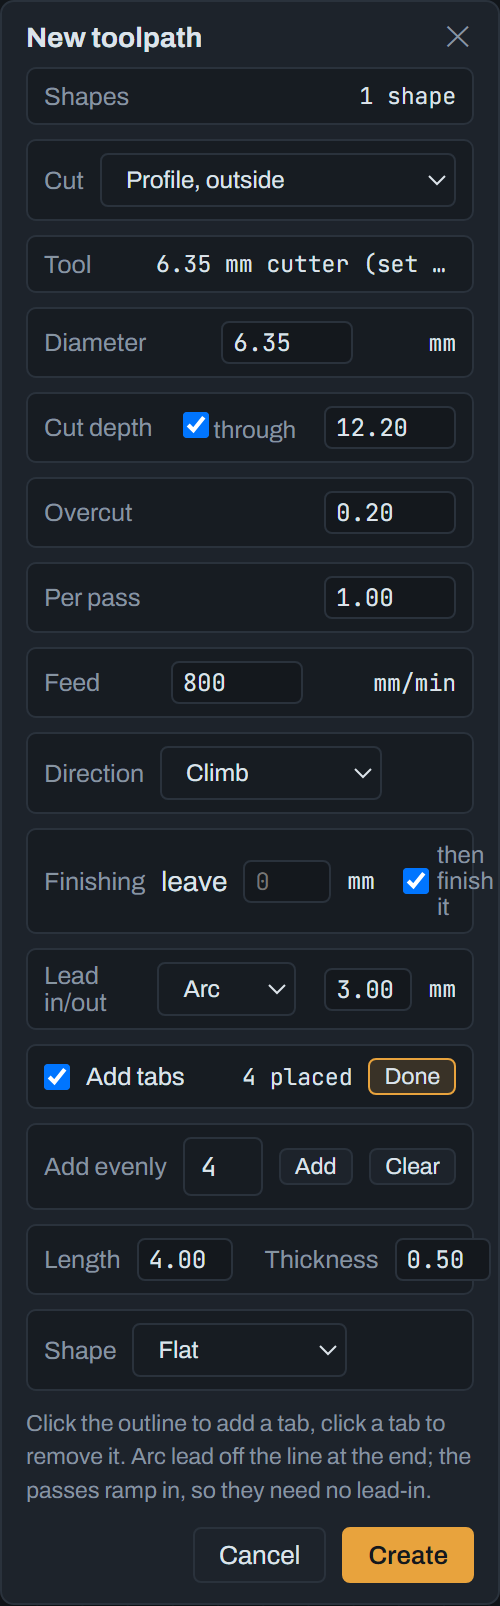
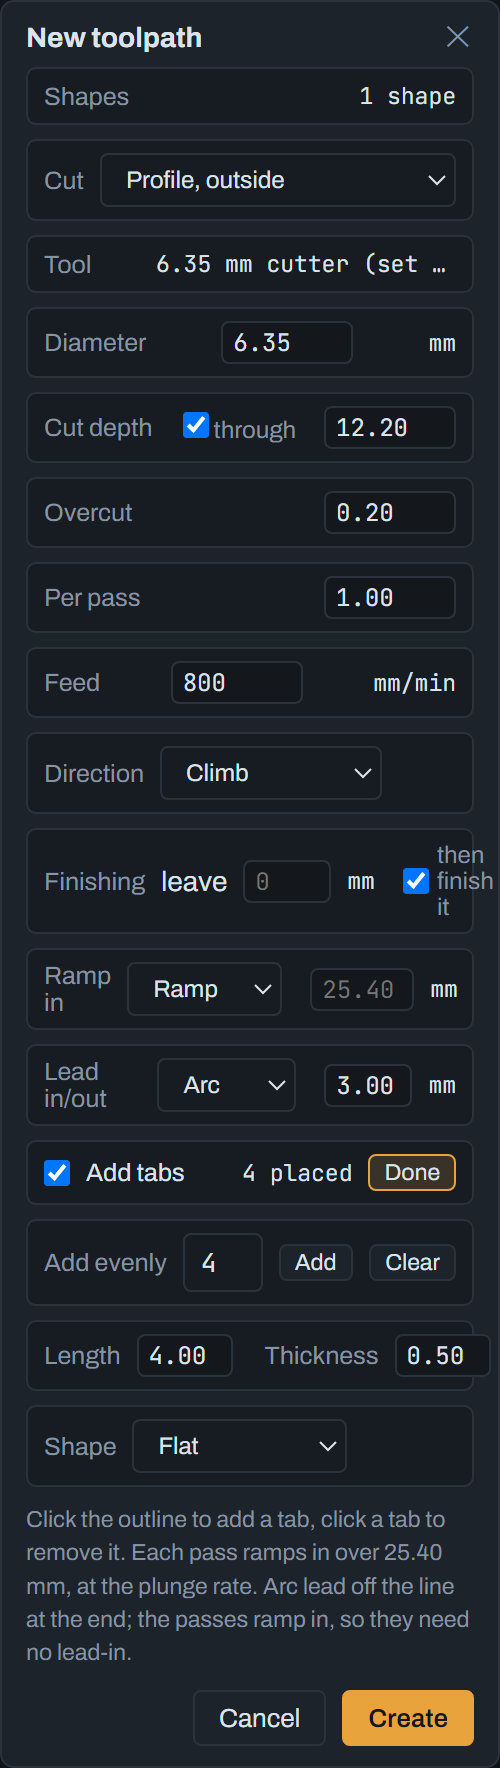
Ramp in for profiles and pockets: Ramp or Plunge, and how far (Design 0.98.0, desktop 0.6.2-beta.18)
Profiles and pockets always ramped in over 4x the cutter's diameter (at
least 4 mm), with no way to see it, change it or plunge. The toolpath
editor gets a Ramp in row: Ramp (the default, with its length: empty for
the automatic one, which follows the cutter, or typed) or Plunge (ramp
length 0, which the CAM engine already takes as a straight plunge; a
plunging profile then uses its lead-in). tpRamp() in toolpath-generate.js
decides the length. Cards and the job sheet show it as Entry.

Existing toolpaths are unchanged (checked move for move). Tested through
the editor with the CAM engine (9 tests, each checked by breaking what it
covers). Docs and screenshots updated.

Changed region(s): [[0.0, 0.0, 0.99, 1.0], [0.78, 0.0, 0.93, 0.0623], [0.72, 0.0311, 0.75, 0.0623]]

diff --git a/design.html b/design.html
@@ -763,6 +763,10 @@
       <div class="mirSlot" id="cutFinRow" hidden style="cursor:default"><span class="mirLbl"><label for="cutAllow">Finishing</label></span>
         leave <input id="cutAllow" type="text" inputmode="decimal" autocomplete="off" style="width:44px" placeholder="0" title="Material left on the walls by the roughing passes"> <span class="mirVal" id="cutAllowU"></span>
         <label style="display:flex;align-items:center;gap:4px;margin-left:6px;font-size:12px;color:var(--muted)"><input type="checkbox" id="cutFinPass"> then finish it</label></div>
+      <div class="mirSlot" id="cutRampRow" hidden style="cursor:default"><span class="mirLbl"><label for="cutRamp">Ramp in</label></span>
+        <select id="cutRamp" title="Ramp: each pass slopes down into the material along the cut, instead of plunging straight down. Gentler on the cutter and the machine.">
+          <option value="on">Ramp</option><option value="off">Plunge</option></select>
+        <input id="cutRampLen" type="text" inputmode="decimal" autocomplete="off" style="width:52px;margin-left:6px" title="How far along the cut each pass slopes down. Leave it empty for 4 times the cutter's diameter (at least 4 mm)."> <span class="mirVal" id="cutRampU"></span></div>
       <div class="mirSlot" id="cutLeadRow" hidden style="cursor:default"><span class="mirLbl"><label for="cutLead">Lead in/out</label></span>
         <select id="cutLead" title="Sweep onto the line from the waste side and off it again, so no pass starts or stops on the finished wall">
           <option value="none">None</option><option value="arc">Arc</option><option value="line">Line</option></select>
@@ -902,7 +906,7 @@
 </script>
 <script>
 'use strict';
-var DESIGN_VERSION = '0.97.0'; // bump on every build — shown in the header
+var DESIGN_VERSION = '0.98.0'; // bump on every build — shown in the header
 /* ============================================================
    454 Design — geometry model
    Entities: {t:'line',x1,y1,x2,y2} {t:'circle',cx,cy,r}
@@ -3298,6 +3302,12 @@ function tpTabTotal(tp){
   return n;
 }
 
+// How a profile or pocket enters the material on each pass: a ramp, sloping down along the cut over this
+// length, or 0 for a straight plunge (Ramp off). No length set means 4 times the cutter's diameter, at least
+// 4 mm, and follows the cutter. Toolpaths saved before the setting existed ramp, as they always did.
+function tpRampDefault(tp){ return Math.max(4, (tp.dia || 0) * 4); }
+function tpRamp(tp){ return tp.rampOff ? 0 : (tp.rampLen > 0 ? tp.rampLen : tpRampDefault(tp)); }
+
 // Build (or rebuild) the moves for one toolpath.
 function tpGenerate(tp){
   if (!camReady()) return tp;
@@ -3310,7 +3320,7 @@ function tpGenerate(tp){
                            strategy: tp.pocketClear === 'raster' ? 'raster' : 'offset', rasterAngle: tp.rasterAngle || 0,
                            allowance: tp.allowance || 0, finishPass: !!tp.finishPass,
                            z0: zs, safeZ: zs + (tp.safeZ || 6), feed: tp.feed, plunge: tp.plunge || Math.round(tp.feed / 2),
-                           climb: tp.climb !== false, ramp: {length: tp.rampLen || Math.max(4, tp.dia * 4)}});
+                           climb: tp.climb !== false, ramp: {length: tpRamp(tp)}});
       if (pr.warning) warnP = pr.warning;
       rings += pr.rings || 0; tp.rasterLines = (tp.rasterLines || 0) + (pr.rasterLines || 0);
       pr.moves.forEach(function (m) { pm.push(m); });
@@ -3394,7 +3404,7 @@ function tpGenerate(tp){
       lead: tp.leadType && tp.leadType !== 'none' ? {type: tp.leadType, size: tp.leadSize > 0 ? tp.leadSize : tp.dia} : null,
       feed: tp.feed, plunge: tp.plunge || Math.round(tp.feed / 2), climb: tp.climb !== false, safeZ: tpSurface() + (tp.safeZ || 6),
       tabs: tp.tabsOn && pts && pts.length ? {length: tp.tabLen || 4, thickness: tpTabHeight(tp), shape: tp.tabStyle === '3d' ? '3d' : 'flat', at: pts} : null,
-      ramp: {length: tp.rampLen || Math.max(4, tp.dia * 4)}
+      ramp: {length: tpRamp(tp)}
     });
     if (res.warning) warn = res.warning;
     res.moves.forEach(function (m) { moves.push(m); });
@@ -3519,6 +3529,8 @@ function cutToForm(){
   document.getElementById('cutClear').value = CUT.pocketClear === 'raster' ? 'raster' : 'offset';
   document.getElementById('cutDir').value = CUT.climb === false ? 'conv' : 'climb';
   document.getElementById('cutLead').value = CUT.leadType || 'none';
+  document.getElementById('cutRamp').value = CUT.rampOff ? 'off' : 'on';
+  document.getElementById('cutRampLen').value = CUT.rampLen > 0 ? fmtDisp(CUT.rampLen) : '';
   document.getElementById('cutLeadSize').value = fmtDisp(CUT.leadSize > 0 ? CUT.leadSize : (CUT.dia > 0 ? CUT.dia : 3));
   document.getElementById('cutAllow').value = CUT.allowance > 0 ? fmtDisp(CUT.allowance) : '';
   document.getElementById('cutFinPass').checked = CUT.allowance > 0 ? !!CUT.finishPass : true;
@@ -3556,6 +3568,9 @@ function cutFromForm(){
   CUT.pocketClear = document.getElementById('cutClear').value;
   CUT.climb = document.getElementById('cutDir').value !== 'conv';
   CUT.leadType = document.getElementById('cutLead').value;
+  CUT.rampOff = document.getElementById('cutRamp').value === 'off';
+  var rl = document.getElementById('cutRampLen').value.trim();       // empty: automatic, following the cutter
+  CUT.rampLen = rl === '' ? null : (lenIn(rl) > 0 ? lenIn(rl) : CUT.rampLen);
   var lsz = lenIn(document.getElementById('cutLeadSize').value); if (lsz > 0) CUT.leadSize = lsz;
   var al = document.getElementById('cutAllow').value.trim(); CUT.allowance = al === '' ? 0 : Math.max(0, lenIn(al) || 0);
   CUT.finishPass = document.getElementById('cutFinPass').checked;
@@ -3599,6 +3614,12 @@ function cutRenderInner(){
   document.getElementById('cutDirRow').hidden = drilling || vcarving;
   document.getElementById('cutFinRow').hidden = !(pocketing || CUT.side === 'inside' || CUT.side === 'outside');
   document.getElementById('cutLeadRow').hidden = !(CUT.side === 'inside' || CUT.side === 'outside');
+  var ramps = pocketing || CUT.side === 'inside' || CUT.side === 'outside' || CUT.side === 'on';
+  document.getElementById('cutRampRow').hidden = !ramps;
+  document.getElementById('cutRampU').textContent = unitTag();
+  document.getElementById('cutRampLen').placeholder = fmtDisp(tpRampDefault(CUT));   // the automatic length, until one's typed
+  document.getElementById('cutRampLen').style.display = CUT.rampOff ? 'none' : '';
+  document.getElementById('cutRampU').style.display = CUT.rampOff ? 'none' : '';
   document.getElementById('cutLeadU').textContent = unitTag();
   document.getElementById('cutLeadSize').style.display = CUT.leadType && CUT.leadType !== 'none' ? '' : 'none';
   document.getElementById('cutLeadU').style.display = CUT.leadType && CUT.leadType !== 'none' ? '' : 'none';
@@ -3632,9 +3653,13 @@ function cutRenderInner(){
                       : ' Leaves ' + fmtDisp(CUT.allowance) + ' ' + unitTag() + ' on the walls, for finishing with another toolpath.')
     : '';
   if (CUT.climb === false && !drilling && !vcarving) cutRender.extra += ' Conventional milling.';
+  if (pocketing || CUT.side === 'inside' || CUT.side === 'outside' || CUT.side === 'on')
+    cutRender.extra += CUT.rampOff ? ' Each pass plunges straight down, at the plunge rate.'
+      : ' Each pass ramps in over ' + fmtDisp(tpRamp(CUT)) + ' ' + unitTag() + ', at the plunge rate.';
   if ((CUT.side === 'inside' || CUT.side === 'outside') && CUT.leadType && CUT.leadType !== 'none')
     cutRender.extra += (CUT.allowance > 0 && CUT.finishPass)
-      ? ' The finishing pass leads onto and off the line (' + (CUT.leadType === 'arc' ? 'arc' : 'line') + '); roughing passes ramp in and lead off.'
+      ? ' The finishing pass leads onto and off the line (' + (CUT.leadType === 'arc' ? 'arc' : 'line') + ')' + (CUT.rampOff ? '; the roughing passes too.' : '; roughing passes ramp in and lead off.')
+      : CUT.rampOff ? ' ' + (CUT.leadType === 'arc' ? 'Arc' : 'Line') + ' lead onto the line at the start and off it at the end.'
       : ' ' + (CUT.leadType === 'arc' ? 'Arc' : 'Line') + ' lead off the line at the end; the passes ramp in, so they need no lead-in.';
   document.getElementById('cutOk').disabled = !ok;
   if (CUT.dia > 0 && CUT.toolChosen && !depthSet){
@@ -3940,7 +3965,7 @@ function cutApply(){
     vcMax: CUT.vcMax || 0, vTip: CUT.vTip || 0,
     chamW: CUT.chamW || 1, vAngle: CUT.vAngle || 90, chamMode: CUT.chamMode || 'edge', toolChosen: !!CUT.toolChosen,
     pocketClear: CUT.pocketClear === 'raster' ? 'raster' : 'offset', rasterAngle: CUT.rasterAngle || 0,
-    rampLen: CUT.rampLen, allowance: CUT.allowance || 0, climb: CUT.climb !== false, finishPass: !!(CUT.allowance > 0 && CUT.finishPass),
+    rampLen: CUT.rampLen > 0 ? CUT.rampLen : null, rampOff: !!CUT.rampOff, allowance: CUT.allowance || 0, climb: CUT.climb !== false, finishPass: !!(CUT.allowance > 0 && CUT.finishPass),
     leadType: CUT.leadType || 'none', leadSize: CUT.leadSize || 0,
     vcFrom: CUT.vcFrom, side: CUT.side, ents: CUT.ents.slice(), peck: CUT.peck || 0,
     through: CUT.side === 'chamfer' || CUT.side === 'vcarve' ? false : !!CUT.through, over: CUT.over === undefined ? 0.2 : CUT.over,
@@ -5283,6 +5308,8 @@ function tpRows(tp){
   else if (tp.side === 'chamfer') row('Bevel', fmtDisp(tp.chamW) + ' ' + unitTag() + ' wide, ' + (tp.vAngle || 90) + '\u00b0 bit');
   else if (tp.side === 'pocket') row('Clearing', (tp.pocketClear === 'raster' ? 'raster at ' + (tp.rasterAngle || 0) + '\u00b0, ' : 'offset rings, ') + (tp.stepoverPct || 40) + '% stepover' + (tp.islands ? ' \u00b7 ' + tp.islands + (tp.islands === 1 ? ' island' : ' islands') : ''));
   else row('Shapes', tp.ents.length + (tp.tabsOn ? ' \u00b7 ' + tabN + (tp.tabStyle === '3d' ? ' 3D' : '') + (tabN === 1 ? ' tab' : ' tabs') : ' \u00b7 no tabs'));
+  if (tp.side === 'pocket' || tp.side === 'inside' || tp.side === 'outside' || tp.side === 'on')
+    row('Entry', tp.rampOff ? 'straight plunge' : 'ramps in over ' + fmtDisp(tpRamp(tp)) + ' ' + unitTag());
   if (tp.warning) row('Note', tp.warning);
   return rows;
 }
@@ -11300,7 +11327,7 @@ function wire(){
   document.getElementById('cutDia').addEventListener('input', function(){
     if (CUT && lenIn(document.getElementById('cutDia').value) > 0){ CUT.toolChosen = true; CUT.toolId = null; }   // a typed size is a choice
   });
-  ['cutDia','cutDepth','cutStep','cutPeck','cutStepover','cutFeed','cutTabLen','cutTabThk','cutTabStyle','cutOver','cutChamW','cutVAngle','cutChamMode','cutVcAngle','cutVcMax','cutVcTip','cutClear','cutRasterAng','cutDir','cutAllow','cutFinPass','cutLead','cutLeadSize','cutInlayHalf','cutInlayD','cutInlayS','cutInlayM'].forEach(function(id){
+  ['cutDia','cutDepth','cutStep','cutPeck','cutStepover','cutFeed','cutTabLen','cutTabThk','cutTabStyle','cutOver','cutChamW','cutVAngle','cutChamMode','cutVcAngle','cutVcMax','cutVcTip','cutClear','cutRasterAng','cutDir','cutAllow','cutFinPass','cutLead','cutLeadSize','cutRamp','cutRampLen','cutInlayHalf','cutInlayD','cutInlayS','cutInlayM'].forEach(function(id){
     document.getElementById(id).addEventListener('input', function(){ if (CUT){ cutFromForm(); cutRender(); } });
     document.getElementById(id).addEventListener('change', function(){ if (CUT){ cutFromForm(); cutRender(); } });   // lists and tick boxes
   });

diff --git a/apps/design/src/js/toolpath-editor.js b/apps/design/src/js/toolpath-editor.js
@@ -83,6 +83,8 @@ function cutToForm(){
   document.getElementById('cutClear').value = CUT.pocketClear === 'raster' ? 'raster' : 'offset';
   document.getElementById('cutDir').value = CUT.climb === false ? 'conv' : 'climb';
   document.getElementById('cutLead').value = CUT.leadType || 'none';
+  document.getElementById('cutRamp').value = CUT.rampOff ? 'off' : 'on';
+  document.getElementById('cutRampLen').value = CUT.rampLen > 0 ? fmtDisp(CUT.rampLen) : '';
   document.getElementById('cutLeadSize').value = fmtDisp(CUT.leadSize > 0 ? CUT.leadSize : (CUT.dia > 0 ? CUT.dia : 3));
   document.getElementById('cutAllow').value = CUT.allowance > 0 ? fmtDisp(CUT.allowance) : '';
   document.getElementById('cutFinPass').checked = CUT.allowance > 0 ? !!CUT.finishPass : true;
@@ -120,6 +122,9 @@ function cutFromForm(){
   CUT.pocketClear = document.getElementById('cutClear').value;
   CUT.climb = document.getElementById('cutDir').value !== 'conv';
   CUT.leadType = document.getElementById('cutLead').value;
+  CUT.rampOff = document.getElementById('cutRamp').value === 'off';
+  var rl = document.getElementById('cutRampLen').value.trim();       // empty: automatic, following the cutter
+  CUT.rampLen = rl === '' ? null : (lenIn(rl) > 0 ? lenIn(rl) : CUT.rampLen);
   var lsz = lenIn(document.getElementById('cutLeadSize').value); if (lsz > 0) CUT.leadSize = lsz;
   var al = document.getElementById('cutAllow').value.trim(); CUT.allowance = al === '' ? 0 : Math.max(0, lenIn(al) || 0);
   CUT.finishPass = document.getElementById('cutFinPass').checked;
@@ -163,6 +168,12 @@ function cutRenderInner(){
   document.getElementById('cutDirRow').hidden = drilling || vcarving;
   document.getElementById('cutFinRow').hidden = !(pocketing || CUT.side === 'inside' || CUT.side === 'outside');
   document.getElementById('cutLeadRow').hidden = !(CUT.side === 'inside' || CUT.side === 'outside');
+  var ramps = pocketing || CUT.side === 'inside' || CUT.side === 'outside' || CUT.side === 'on';
+  document.getElementById('cutRampRow').hidden = !ramps;
+  document.getElementById('cutRampU').textContent = unitTag();
+  document.getElementById('cutRampLen').placeholder = fmtDisp(tpRampDefault(CUT));   // the automatic length, until one's typed
+  document.getElementById('cutRampLen').style.display = CUT.rampOff ? 'none' : '';
+  document.getElementById('cutRampU').style.display = CUT.rampOff ? 'none' : '';
   document.getElementById('cutLeadU').textContent = unitTag();
   document.getElementById('cutLeadSize').style.display = CUT.leadType && CUT.leadType !== 'none' ? '' : 'none';
   document.getElementById('cutLeadU').style.display = CUT.leadType && CUT.leadType !== 'none' ? '' : 'none';
@@ -196,9 +207,13 @@ function cutRenderInner(){
                       : ' Leaves ' + fmtDisp(CUT.allowance) + ' ' + unitTag() + ' on the walls, for finishing with another toolpath.')
     : '';
   if (CUT.climb === false && !drilling && !vcarving) cutRender.extra += ' Conventional milling.';
+  if (pocketing || CUT.side === 'inside' || CUT.side === 'outside' || CUT.side === 'on')
+    cutRender.extra += CUT.rampOff ? ' Each pass plunges straight down, at the plunge rate.'
+      : ' Each pass ramps in over ' + fmtDisp(tpRamp(CUT)) + ' ' + unitTag() + ', at the plunge rate.';
   if ((CUT.side === 'inside' || CUT.side === 'outside') && CUT.leadType && CUT.leadType !== 'none')
     cutRender.extra += (CUT.allowance > 0 && CUT.finishPass)
-      ? ' The finishing pass leads onto and off the line (' + (CUT.leadType === 'arc' ? 'arc' : 'line') + '); roughing passes ramp in and lead off.'
+      ? ' The finishing pass leads onto and off the line (' + (CUT.leadType === 'arc' ? 'arc' : 'line') + ')' + (CUT.rampOff ? '; the roughing passes too.' : '; roughing passes ramp in and lead off.')
+      : CUT.rampOff ? ' ' + (CUT.leadType === 'arc' ? 'Arc' : 'Line') + ' lead onto the line at the start and off it at the end.'
       : ' ' + (CUT.leadType === 'arc' ? 'Arc' : 'Line') + ' lead off the line at the end; the passes ramp in, so they need no lead-in.';
   document.getElementById('cutOk').disabled = !ok;
   if (CUT.dia > 0 && CUT.toolChosen && !depthSet){
@@ -504,7 +519,7 @@ function cutApply(){
     vcMax: CUT.vcMax || 0, vTip: CUT.vTip || 0,
     chamW: CUT.chamW || 1, vAngle: CUT.vAngle || 90, chamMode: CUT.chamMode || 'edge', toolChosen: !!CUT.toolChosen,
     pocketClear: CUT.pocketClear === 'raster' ? 'raster' : 'offset', rasterAngle: CUT.rasterAngle || 0,
-    rampLen: CUT.rampLen, allowance: CUT.allowance || 0, climb: CUT.climb !== false, finishPass: !!(CUT.allowance > 0 && CUT.finishPass),
+    rampLen: CUT.rampLen > 0 ? CUT.rampLen : null, rampOff: !!CUT.rampOff, allowance: CUT.allowance || 0, climb: CUT.climb !== false, finishPass: !!(CUT.allowance > 0 && CUT.finishPass),
     leadType: CUT.leadType || 'none', leadSize: CUT.leadSize || 0,
     vcFrom: CUT.vcFrom, side: CUT.side, ents: CUT.ents.slice(), peck: CUT.peck || 0,
     through: CUT.side === 'chamfer' || CUT.side === 'vcarve' ? false : !!CUT.through, over: CUT.over === undefined ? 0.2 : CUT.over,

diff --git a/apps/design/src/js/toolpath-generate.js b/apps/design/src/js/toolpath-generate.js
@@ -59,6 +59,12 @@ function tpTabTotal(tp){
   return n;
 }
 
+// How a profile or pocket enters the material on each pass: a ramp, sloping down along the cut over this
+// length, or 0 for a straight plunge (Ramp off). No length set means 4 times the cutter's diameter, at least
+// 4 mm, and follows the cutter. Toolpaths saved before the setting existed ramp, as they always did.
+function tpRampDefault(tp){ return Math.max(4, (tp.dia || 0) * 4); }
+function tpRamp(tp){ return tp.rampOff ? 0 : (tp.rampLen > 0 ? tp.rampLen : tpRampDefault(tp)); }
+
 // Build (or rebuild) the moves for one toolpath.
 function tpGenerate(tp){
   if (!camReady()) return tp;
@@ -71,7 +77,7 @@ function tpGenerate(tp){
                            strategy: tp.pocketClear === 'raster' ? 'raster' : 'offset', rasterAngle: tp.rasterAngle || 0,
                            allowance: tp.allowance || 0, finishPass: !!tp.finishPass,
                            z0: zs, safeZ: zs + (tp.safeZ || 6), feed: tp.feed, plunge: tp.plunge || Math.round(tp.feed / 2),
-                           climb: tp.climb !== false, ramp: {length: tp.rampLen || Math.max(4, tp.dia * 4)}});
+                           climb: tp.climb !== false, ramp: {length: tpRamp(tp)}});
       if (pr.warning) warnP = pr.warning;
       rings += pr.rings || 0; tp.rasterLines = (tp.rasterLines || 0) + (pr.rasterLines || 0);
       pr.moves.forEach(function (m) { pm.push(m); });
@@ -155,7 +161,7 @@ function tpGenerate(tp){
       lead: tp.leadType && tp.leadType !== 'none' ? {type: tp.leadType, size: tp.leadSize > 0 ? tp.leadSize : tp.dia} : null,
       feed: tp.feed, plunge: tp.plunge || Math.round(tp.feed / 2), climb: tp.climb !== false, safeZ: tpSurface() + (tp.safeZ || 6),
       tabs: tp.tabsOn && pts && pts.length ? {length: tp.tabLen || 4, thickness: tpTabHeight(tp), shape: tp.tabStyle === '3d' ? '3d' : 'flat', at: pts} : null,
-      ramp: {length: tp.rampLen || Math.max(4, tp.dia * 4)}
+      ramp: {length: tpRamp(tp)}
     });
     if (res.warning) warn = res.warning;
     res.moves.forEach(function (m) { moves.push(m); });

diff --git a/apps/design/src/design.html b/apps/design/src/design.html
@@ -344,6 +344,10 @@
       <div class="mirSlot" id="cutFinRow" hidden style="cursor:default"><span class="mirLbl"><label for="cutAllow">Finishing</label></span>
         leave <input id="cutAllow" type="text" inputmode="decimal" autocomplete="off" style="width:44px" placeholder="0" title="Material left on the walls by the roughing passes"> <span class="mirVal" id="cutAllowU"></span>
         <label style="display:flex;align-items:center;gap:4px;margin-left:6px;font-size:12px;color:var(--muted)"><input type="checkbox" id="cutFinPass"> then finish it</label></div>
+      <div class="mirSlot" id="cutRampRow" hidden style="cursor:default"><span class="mirLbl"><label for="cutRamp">Ramp in</label></span>
+        <select id="cutRamp" title="Ramp: each pass slopes down into the material along the cut, instead of plunging straight down. Gentler on the cutter and the machine.">
+          <option value="on">Ramp</option><option value="off">Plunge</option></select>
+        <input id="cutRampLen" type="text" inputmode="decimal" autocomplete="off" style="width:52px;margin-left:6px" title="How far along the cut each pass slopes down. Leave it empty for 4 times the cutter's diameter (at least 4 mm)."> <span class="mirVal" id="cutRampU"></span></div>
       <div class="mirSlot" id="cutLeadRow" hidden style="cursor:default"><span class="mirLbl"><label for="cutLead">Lead in/out</label></span>
         <select id="cutLead" title="Sweep onto the line from the waste side and off it again, so no pass starts or stops on the finished wall">
           <option value="none">None</option><option value="arc">Arc</option><option value="line">Line</option></select>

diff --git a/apps/design/src/js/wiring.js b/apps/design/src/js/wiring.js
@@ -143,7 +143,7 @@ function wire(){
   document.getElementById('cutDia').addEventListener('input', function(){
     if (CUT && lenIn(document.getElementById('cutDia').value) > 0){ CUT.toolChosen = true; CUT.toolId = null; }   // a typed size is a choice
   });
-  ['cutDia','cutDepth','cutStep','cutPeck','cutStepover','cutFeed','cutTabLen','cutTabThk','cutTabStyle','cutOver','cutChamW','cutVAngle','cutChamMode','cutVcAngle','cutVcMax','cutVcTip','cutClear','cutRasterAng','cutDir','cutAllow','cutFinPass','cutLead','cutLeadSize','cutInlayHalf','cutInlayD','cutInlayS','cutInlayM'].forEach(function(id){
+  ['cutDia','cutDepth','cutStep','cutPeck','cutStepover','cutFeed','cutTabLen','cutTabThk','cutTabStyle','cutOver','cutChamW','cutVAngle','cutChamMode','cutVcAngle','cutVcMax','cutVcTip','cutClear','cutRasterAng','cutDir','cutAllow','cutFinPass','cutLead','cutLeadSize','cutRamp','cutRampLen','cutInlayHalf','cutInlayD','cutInlayS','cutInlayM'].forEach(function(id){
     document.getElementById(id).addEventListener('input', function(){ if (CUT){ cutFromForm(); cutRender(); } });
     document.getElementById(id).addEventListener('change', function(){ if (CUT){ cutFromForm(); cutRender(); } });   // lists and tick boxes
   });

diff --git a/apps/design/src/js/toolpath-cards.js b/apps/design/src/js/toolpath-cards.js
@@ -13,6 +13,8 @@ function tpRows(tp){
   else if (tp.side === 'chamfer') row('Bevel', fmtDisp(tp.chamW) + ' ' + unitTag() + ' wide, ' + (tp.vAngle || 90) + '\u00b0 bit');
   else if (tp.side === 'pocket') row('Clearing', (tp.pocketClear === 'raster' ? 'raster at ' + (tp.rasterAngle || 0) + '\u00b0, ' : 'offset rings, ') + (tp.stepoverPct || 40) + '% stepover' + (tp.islands ? ' \u00b7 ' + tp.islands + (tp.islands === 1 ? ' island' : ' islands') : ''));
   else row('Shapes', tp.ents.length + (tp.tabsOn ? ' \u00b7 ' + tabN + (tp.tabStyle === '3d' ? ' 3D' : '') + (tabN === 1 ? ' tab' : ' tabs') : ' \u00b7 no tabs'));
+  if (tp.side === 'pocket' || tp.side === 'inside' || tp.side === 'outside' || tp.side === 'on')
+    row('Entry', tp.rampOff ? 'straight plunge' : 'ramps in over ' + fmtDisp(tpRamp(tp)) + ' ' + unitTag());
   if (tp.warning) row('Note', tp.warning);
   return rows;
 }

diff --git a/apps/design/src/js/version.js b/apps/design/src/js/version.js
@@ -1,2 +1,2 @@
 'use strict';
-var DESIGN_VERSION = '0.97.0'; // bump on every build — shown in the header
+var DESIGN_VERSION = '0.98.0'; // bump on every build — shown in the header

diff --git a/CHANGELOG.md b/CHANGELOG.md
@@ -27,6 +27,9 @@ quiet guards that don't change that process; any unavoidable difference is flagg
 
 ## 454 Workshop (the desktop app, in testing)
 
+### 0.6.2-beta.18 — Ramp in
+- **Profiles and pockets: Ramp in, Ramp or Plunge, and how far** (see Design 0.98.0). Includes Design 0.98.0.
+
 ### 0.6.2-beta.17 — copy and paste
 - **Copy, cut and paste shapes in Design, with their dimensions** (see Design 0.97.0). Includes Design 0.97.0.
 
@@ -708,6 +711,22 @@ The controller is the authority on the machine, so anything it reports is used r
 ---
 
 ## 454 Design
+
+### 0.98.0 — Ramp in, for profiles and pockets
+- **Ramp in: Ramp or Plunge, and how far (new).** Profiles and pockets always ramped into each pass, over 4
+  times the cutter's diameter (at least 4 mm), but nothing showed it or let you change it; only a converted
+  VCarve toolpath could set another length, and there was no way to plunge. The toolpath editor now has a
+  **Ramp in** row: **Ramp** (the default, cutting exactly as before) with its length (empty for the
+  automatic length, which follows the cutter; or type your own), or **Plunge**, straight down at the plunge
+  rate. A profile that plunges uses its lead-in, if it has one; one that ramps uses only the lead-out, as
+  before.
+- The toolpath's card and the job sheet show it (**Entry**: "ramps in over 25.40 mm" or "straight plunge"),
+  and the hint under the settings says what each pass will do.
+- **(machine)** Unchanged for existing toolpaths: one saved before this ramps as it always did (checked
+  move for move).
+- Tested through Design's own editor with the CAM engine (9 tests: the default, a typed length, Plunge,
+  inside, outside and on-the-line profiles, offset and raster pockets, never deeper than the depth), each
+  checked by breaking what it covers.
 
 ### 0.97.0 — copy and paste, dimensions included
 - **Ctrl+C, Ctrl+X and Ctrl+V copy, cut and paste shapes.** Ctrl+V puts the copy centred on the pointer

diff --git a/CLAUDE.md b/CLAUDE.md
@@ -102,6 +102,9 @@ without a published release looks to them like a newest release with nothing in 
 - **Nothing interrupts a job.** A new version shows as a notice in Control's and Design's headers
   (`apps/desktop/src/renderer/update-badge.js`), never a window; **Restart to update** is refused while
   454 Control's `machineBusy()` is true. The menu's Check for updates… asks in windows, which wait for it.
+- **Profiles and pockets ramp in by default** (4× the cutter's diameter, at least 4 mm, or a set length);
+  **Ramp in: Plunge** goes straight down. A profile that ramps uses only its lead-out. (`tpRamp` in
+  `toolpath-generate.js`; the CAM engine takes ramp length 0 as a plunge.)
 - **Copy and paste bring dimensions** (`clipboard.js`): a dimension whose shapes were all copied is pasted
   measuring the copies; one to a shape left behind stays. Ctrl+V pastes at the pointer, Ctrl+Shift+V in place.
 - **Design asks before closing an unsaved drawing** (not saved to a file since it changed; `unsaved.js`):
